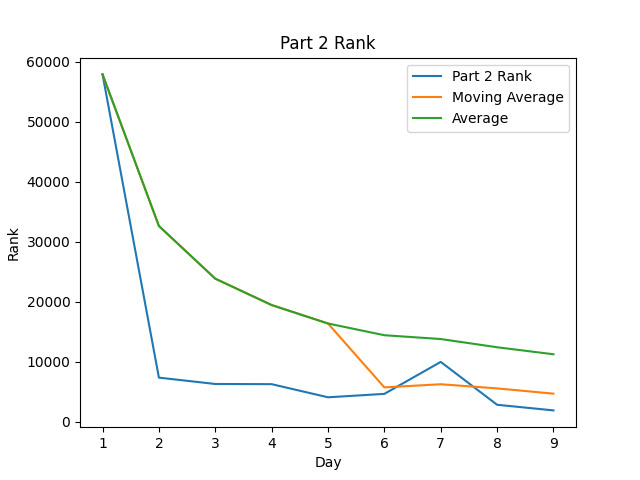
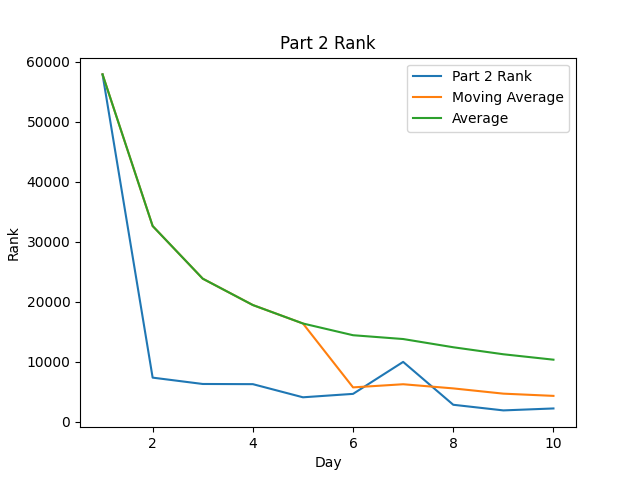
Day 10 ✅

diff --git a/src/day10/solution.rs b/src/day10/solution.rs
@@ -1,0 +1,113 @@
+fn find_syntax_error_score(line: &str) -> i32 {
+    let mut stack = vec![' '; 0];
+    for char in line.chars() {
+        match char {
+            '[' => stack.push('['),
+            '{' => stack.push('{'),
+            '(' => stack.push('('),
+            '<' => stack.push('<'),
+            ')' => {
+                if stack.pop().unwrap() != '(' {
+                    return 3;
+                }
+            },
+            ']' => {
+                if stack.pop().unwrap() != '[' {
+                    return 57;
+                }
+            },
+            '}' => {
+                if stack.pop().unwrap() != '{' {
+                    return 1197;
+                }
+            },
+            '>' => {
+                if stack.pop().unwrap() != '<' {
+                    return 25137;
+                }
+            },
+            _ => {}
+        }
+    }
+    if stack.is_empty() {
+        return 0;
+    }
+    1
+}
+
+fn find_auto_complete_score(line: &str) -> i64 {
+    let mut stack = vec![' '; 0];
+    for char in line.chars() {
+        match char {
+            '(' => stack.push('('),
+            '[' => stack.push('['),
+            '{' => stack.push('{'),
+            '<' => stack.push('<'),
+            ')' => {
+                if stack.pop().unwrap() != '(' {
+                    return -1;
+                }
+            },
+            ']' => {
+                if stack.pop().unwrap() != '[' {
+                    return -1;
+                }
+            },
+            '}' => {
+                if stack.pop().unwrap() != '{' {
+                    return -1;
+                }
+            },
+            '>' => {
+                if stack.pop().unwrap() != '<' {
+                    return -1;
+                }
+            },
+            _ => {}
+        }
+    }
+    if stack.is_empty() {
+        return 0;
+    }
+    let mut auto_correct_score = 0i64;
+    while let Some(char) = stack.pop() {
+        match char {
+            '(' => {
+                auto_correct_score = auto_correct_score * 5 + 1;
+            },
+            '[' => {
+                auto_correct_score = auto_correct_score * 5 + 2;
+            },
+            '{' => {
+                auto_correct_score = auto_correct_score * 5 + 3;
+            },
+            '<' => {
+                auto_correct_score = auto_correct_score * 5 + 4;
+            },
+            _ => {},
+        }
+    }
+    auto_correct_score
+}
+
+pub fn part1(input: String) -> i64 {
+    input
+        .lines()
+        .map(|line| {
+            find_syntax_error_score(line)
+        })
+        .filter(|&score| score >= 0)
+        .sum::<i32>() as i64
+}
+
+pub fn part2(input: String) -> i64 {
+    let mut auto_complete_scores = input
+        .lines()
+        .map(|line| {
+            find_auto_complete_score(line)
+        })
+        .filter(|&score| score > 0)
+        .collect::<Vec<i64>>();
+    auto_complete_scores.sort_unstable();
+    auto_complete_scores[(auto_complete_scores.len() as f32 / 2f32).floor() as usize]
+}

diff --git a/tests/test_day10.rs b/tests/test_day10.rs
@@ -1,0 +1,35 @@
+use aoc_2021::day10 as day;
+
+#[test]
+fn test_part1() {
+    let inputs = "[({(<(())[]>[[{[]{<()<>>
+[(()[<>])]({[<{<<[]>>(
+{([(<{}[<>[]}>{[]{[(<()>
+(((({<>}<{<{<>}{[]{[]{}
+[[<[([]))<([[{}[[()]]]
+[{[{({}]{}}([{[{{{}}([]
+{<[[]]>}<{[{[{[]{()[[[]
+[<(<(<(<{}))><([]([]()
+<{([([[(<>()){}]>(<<{{
+<{([{{}}[<[[[<>{}]]]>[]]";
+    let expected = 26397;
+    let result = day::part1(inputs.to_string());
+    assert_eq!(expected, result);
+}
+
+#[test]
+fn test_part2() {
+    let inputs = "[({(<(())[]>[[{[]{<()<>>
+[(()[<>])]({[<{<<[]>>(
+{([(<{}[<>[]}>{[]{[(<()>
+(((({<>}<{<{<>}{[]{[]{}
+[[<[([]))<([[{}[[()]]]
+[{[{({}]{}}([{[{{{}}([]
+{<[[]]>}<{[{[{[]{()[[[]
+[<(<(<(<{}))><([]([]()
+<{([([[(<>()){}]>(<<{{
+<{([{{}}[<[[[<>{}]]]>[]]";
+    let expected = 288957;
+    let result = day::part2(inputs.to_string());
+    assert_eq!(expected, result);
+}

diff --git a/src/main.rs b/src/main.rs
@@ -29,6 +29,7 @@ fn get_day_fns() -> (PartFunction, PartFunction) {
         7 => (day07::part1, day07::part2),
         8 => (day08::part1, day08::part2),
         9 => (day09::part1, day09::part2),
+        10 => (day10::part1, day10::part2),
 // CASE_MARKER
         _ => {
             panic!("Invalid day number: {}", day_num);

diff --git a/src/lib.rs b/src/lib.rs
@@ -7,3 +7,4 @@
 #[path = "day07/solution.rs"] pub mod day07;
 #[path = "day08/solution.rs"] pub mod day08;
 #[path = "day09/solution.rs"] pub mod day09;
+#[path = "day10/solution.rs"] pub mod day10;

diff --git a/src/day10/README.md b/src/day10/README.md
@@ -1,0 +1,58 @@
+\--- Day 10: Syntax Scoring ---
+-------------------------------
+
+You ask the submarine to determine the best route out of the deep-sea cave, but it only replies:
+
+    Syntax error in navigation subsystem on line: all of them
+
+_All of them?!_ The damage is worse than you thought. You bring up a copy of the navigation subsystem (your puzzle input).
+
+The navigation subsystem syntax is made of several lines containing _chunks_. There are one or more chunks on each line, and chunks contain zero or more other chunks. Adjacent chunks are not separated by any delimiter; if one chunk stops, the next chunk (if any) can immediately start. Every chunk must _open_ and _close_ with one of four legal pairs of matching characters:
+
+*   If a chunk opens with `(`, it must close with `)`.
+*   If a chunk opens with `[`, it must close with `]`.
+*   If a chunk opens with `{`, it must close with `}`.
+*   If a chunk opens with `<`, it must close with `>`.
+
+So, `()` is a legal chunk that contains no other chunks, as is `[]`. More complex but valid chunks include `([])`, `{()()()}`, `<([{}])>`, `[<>({}){}[([])<>]]`, and even `(((((((((())))))))))`.
+
+Some lines are _incomplete_, but others are _corrupted_. Find and discard the corrupted lines first.
+
+A corrupted line is one where a chunk _closes with the wrong character_ - that is, where the characters it opens and closes with do not form one of the four legal pairs listed above.
+
+Examples of corrupted chunks include `(]`, `{()()()>`, `(((()))}`, and `<([]){()}[{}])`. Such a chunk can appear anywhere within a line, and its presence causes the whole line to be considered corrupted.
+
+For example, consider the following navigation subsystem:
+
+    [({(<(())[]>[[{[]{<()<>>
+    [(()[<>])]({[<{<<[]>>(
+    {([(<{}[<>[]}>{[]{[(<()>
+    (((({<>}<{<{<>}{[]{[]{}
+    [[<[([]))<([[{}[[()]]]
+    [{[{({}]{}}([{[{{{}}([]
+    {<[[]]>}<{[{[{[]{()[[[]
+    [<(<(<(<{}))><([]([]()
+    <{([([[(<>()){}]>(<<{{
+    <{([{{}}[<[[[<>{}]]]>[]]
+    
+
+Some of the lines aren't corrupted, just incomplete; you can ignore these lines for now. The remaining five lines are corrupted:
+
+*   `{([(<{}[<>[]}>{[]{[(<()>` - Expected `]`, but found `}` instead.
+*   `[[<[([]))<([[{}[[()]]]` - Expected `]`, but found `)` instead.
+*   `[{[{({}]{}}([{[{{{}}([]` - Expected `)`, but found `]` instead.
+*   `[<(<(<(<{}))><([]([]()` - Expected `>`, but found `)` instead.
+*   `<{([([[(<>()){}]>(<<{{` - Expected `]`, but found `>` instead.
+
+Stop at the first incorrect closing character on each corrupted line.
+
+Did you know that syntax checkers actually have contests to see who can get the high score for syntax errors in a file? It's true! To calculate the syntax error score for a line, take the _first illegal character_ on the line and look it up in the following table:
+
+*   `)`: `3` points.
+*   `]`: `57` points.
+*   `}`: `1197` points.
+*   `>`: `25137` points.
+
+In the above example, an illegal `)` was found twice (`2*3 = _6_` points), an illegal `]` was found once (`_57_` points), an illegal `}` was found once (`_1197_` points), and an illegal `>` was found once (`_25137_` points). So, the total syntax error score for this file is `6+57+1197+25137 = _26397_` points!
+
+Find the first illegal character in each corrupted line of the navigation subsystem. _What is the total syntax error score for those errors?_

diff --git a/README.md b/README.md
@@ -29,7 +29,8 @@
 |   7 | 00:10:58 ( 4963)   | 00:48:52 (10002)   |
 |   8 | 00:11:09 ( 2427)   | 01:10:57 ( 2861)   |
 |   9 | 00:18:13 ( 4231)   | 00:30:30 ( 1923)   |
-| Avg | 01:39:50 (11651)   | 02:04:38 (11273)   |
+|  10 | 00:09:42 ( 1455)   | 00:22:29 ( 2247)   |
+| Avg | 01:30:49 (10632)   | 01:54:25 (10370)   |
 
 
 <!--suppress CheckImageSize -->
